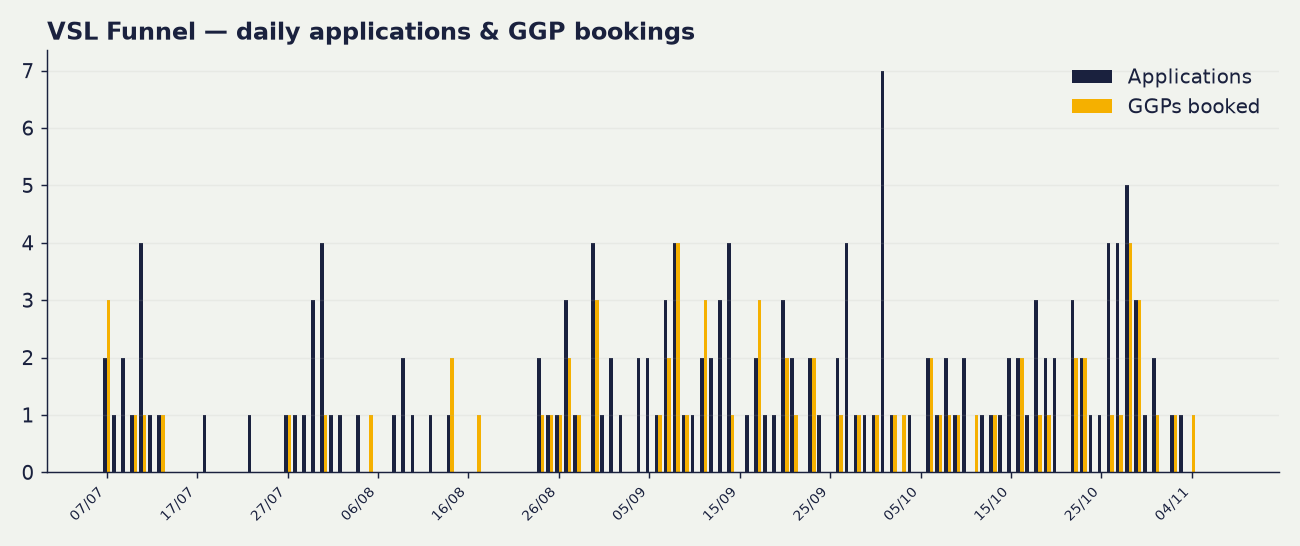
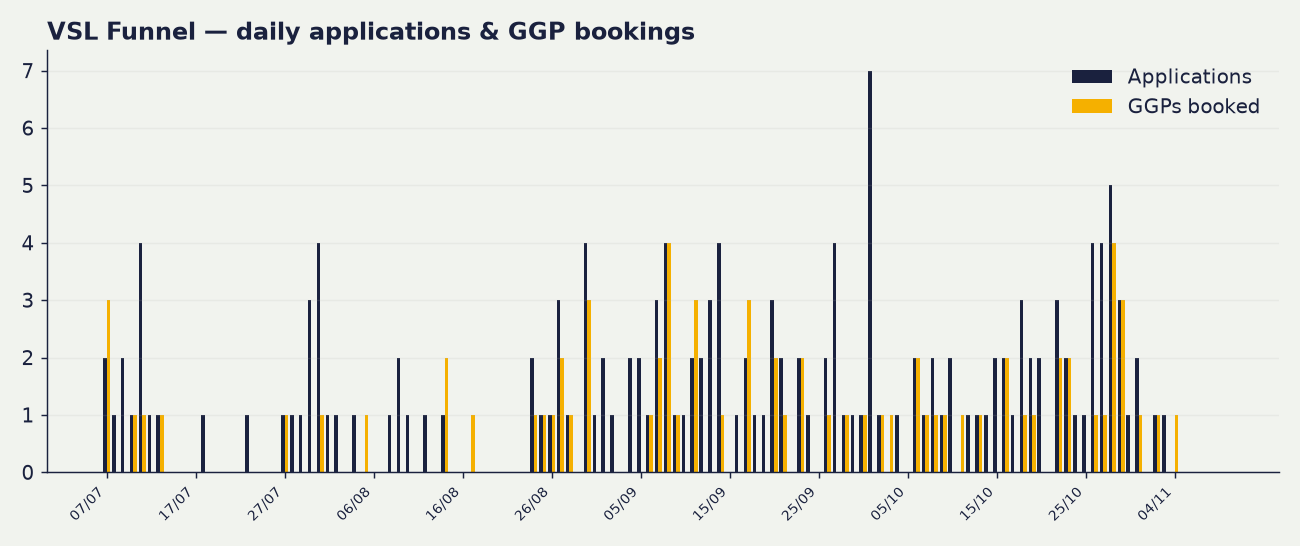
nightly dashboard update 2026-11-09 10:46

diff --git a/content/index.md b/content/index.md
@@ -1,17 +1,17 @@
 # 📈 VSL Funnel Dashboard
 
-_Signups from Stripe (live API). Show-ups from the SBC team Tick Sheet. Spend from Meta. Updated 8 Nov 2026, 03:24 GMT, rebuilds nightly._
+_Signups from Stripe (live API). Show-ups from the SBC team Tick Sheet. Spend from Meta. Updated 9 Nov 2026, 10:46 GMT, rebuilds nightly._
 
 ## 🎯 The headline — both funnels combined
 
 | | |
 |---|---|
-| **Blended CPA** | **£650** |
-| Total spend | **£15,590.78** |
+| **Blended CPA** | **£651** |
+| Total spend | **£15,614.82** |
 | Total signups | **24** |
 | Who signed | Adam Luke, Adam Timpson, Alexandru Mardari, Benjamin Furuberg, C Beech, C-Jay Harvey, Conor, Daniel  Steer, Georgia, Harry, Joe Gray-Misiuk, Kirstie Hall, Lily  Colmer, Lisa, MR B CAMPBELL, Matt, Mohit, Musa Rahat, Ross gibbins, Stephen Webb, Tarik Merrett, Tom Wain, Zeeshan Ahmed, ross lachlan |
 
-> £15,591 spent → 24 signed = **£650 blended cost per signup.** VSL 1.0 (mass avatar) and VSL 2.0 (upgraded avatar) share the load: cheap high-volume + premium low-volume blend into one true acquisition cost.
+> £15,615 spent → 24 signed = **£651 blended cost per signup.** VSL 1.0 (mass avatar) and VSL 2.0 (upgraded avatar) share the load: cheap high-volume + premium low-volume blend into one true acquisition cost.
 
 ---
 
@@ -19,13 +19,13 @@ _Signups from Stripe (live API). Show-ups from the SBC team Tick Sheet. Spend fr
 
 | Metric | VSL 1.0 | VSL 2.0 | Combined |
 |---|---|---|---|
-| 🎯 **CPA** | **£582** | **£853** | **£650** |
+| 🎯 **CPA** | **£583** | **£855** | **£651** |
 | 🤝 Signed | 18 | 6 | **24** |
-| 💷 Spent | £10,470.09 | £5,120.69 | **£15,590.78** |
+| 💷 Spent | £10,485.48 | £5,129.34 | **£15,614.82** |
 | ✅ Showed up | 35 | 12 | **47** |
 | 📞 GGPs booked | 73 | 15 | **88** |
 | 📝 Applications | 163 | 43 | **206** |
-| 👀 Opt-ins | 290 | 113 | **403** |
+| 👀 Opt-ins | 290 | 114 | **404** |
 
 ---
 
@@ -39,7 +39,7 @@ _Signups from Stripe (live API). Show-ups from the SBC team Tick Sheet. Spend fr
 
 | Metric | 🇬🇧🇮🇪 UK & Ireland | 🇺🇸🇨🇦 US & Canada | Total |
 |---|---|---|---|
-| 💷 Spent | £10,026.18 | £443.91 | **£10,470.09** |
+| 💷 Spent | £10,041.57 | £443.91 | **£10,485.48** |
 | 👀 Opt-ins | 243 | 41 | **290** |
 | 📝 Applications | 143 | 12 | **164** |
 | 📞 GGPs booked | 63 | 7 | **74** |
@@ -63,16 +63,16 @@ _Signups from Stripe (live API). Show-ups from the SBC team Tick Sheet. Spend fr
 | Cost | 🇬🇧🇮🇪 UK & Ireland | 🇺🇸🇨🇦 US & Canada | Total |
 |---|---|---|---|
 | Cost per application | £70 | £37 | **£64** |
-| Cost per GGP booked | £159 | £63 | **£141** |
+| Cost per GGP booked | £159 | £63 | **£142** |
 | Cost per show-up | £304 | £222 | **£291** |
-| **Cost per acquisition (CPA)** | **£590** | **—** | **£582** |
+| **Cost per acquisition (CPA)** | **£591** | **—** | **£583** |
 
 **Ad spend split**
 
 | Band | 🇬🇧🇮🇪 UK & Ireland | 🇺🇸🇨🇦 US & Canada | Total |
 |---|---|---|---|
-| 🔥 Warm | £6,356.14 | £222.02 | **£6,578.16** |
-| ❄ Cold | £3,670.04 | £221.89 | **£3,891.93** |
+| 🔥 Warm | £6,364.52 | £222.02 | **£6,586.54** |
+| ❄ Cold | £3,677.05 | £221.89 | **£3,898.94** |
 
 > 🤝 Signed — Adam Luke, Adam Timpson, Alexandru Mardari, Benjamin Furuberg, C Beech, C-Jay Harvey, Daniel  Steer, Joe Gray-Misiuk, Kirstie Hall, Lily  Colmer, MR B CAMPBELL, Musa Rahat, Ross gibbins, Stephen Webb, Tarik Merrett, Tom Wain, Zeeshan Ahmed, ross lachlan
 
@@ -91,8 +91,8 @@ _Signups from Stripe (live API). Show-ups from the SBC team Tick Sheet. Spend fr
 
 | Metric | Value |
 |---|---|
-| 💷 Spent | **£5,120.69** |
-| 👀 Opt-ins | **113** |
+| 💷 Spent | **£5,129.34** |
+| 👀 Opt-ins | **114** |
 | 📝 Applications | **43** |
 | 📞 GGPs booked | **15** |
 | ✅ Showed up | **12** |
@@ -113,13 +113,13 @@ _Signups from Stripe (live API). Show-ups from the SBC team Tick Sheet. Spend fr
 | Cost | Value |
 |---|---|
 | Cost per application | £119 |
-| Cost per GGP booked | £341 |
+| Cost per GGP booked | £342 |
 | Cost per show-up | £427 |
-| **Cost per acquisition (CPA)** | **£853** |
+| **Cost per acquisition (CPA)** | **£855** |
 
 **Ad spend split**
 
-- 🔥 Warm: £4,241.53
+- 🔥 Warm: £4,250.18
 - ❄ Cold: £879.16
 
 ![VSL 2.0 — upgraded avatar — funnel](vsl2_funnel_stages.png)
@@ -137,4 +137,4 @@ _Signups from Stripe (live API). Show-ups from the SBC team Tick Sheet. Spend fr
 > _Applications + GGP-booked are TRUE daily series (from submission timestamps). Opt-ins have no per-day source in the Opt-ins tab, so opt-ins appear as a total only, not a daily line._
 
 ---
-<!-- Auto-generated by the VSL dashboard nightly pipeline. Do not edit by hand. 8 Nov 2026, 03:24 GMT -->
+<!-- Auto-generated by the VSL dashboard nightly pipeline. Do not edit by hand. 9 Nov 2026, 10:46 GMT -->
